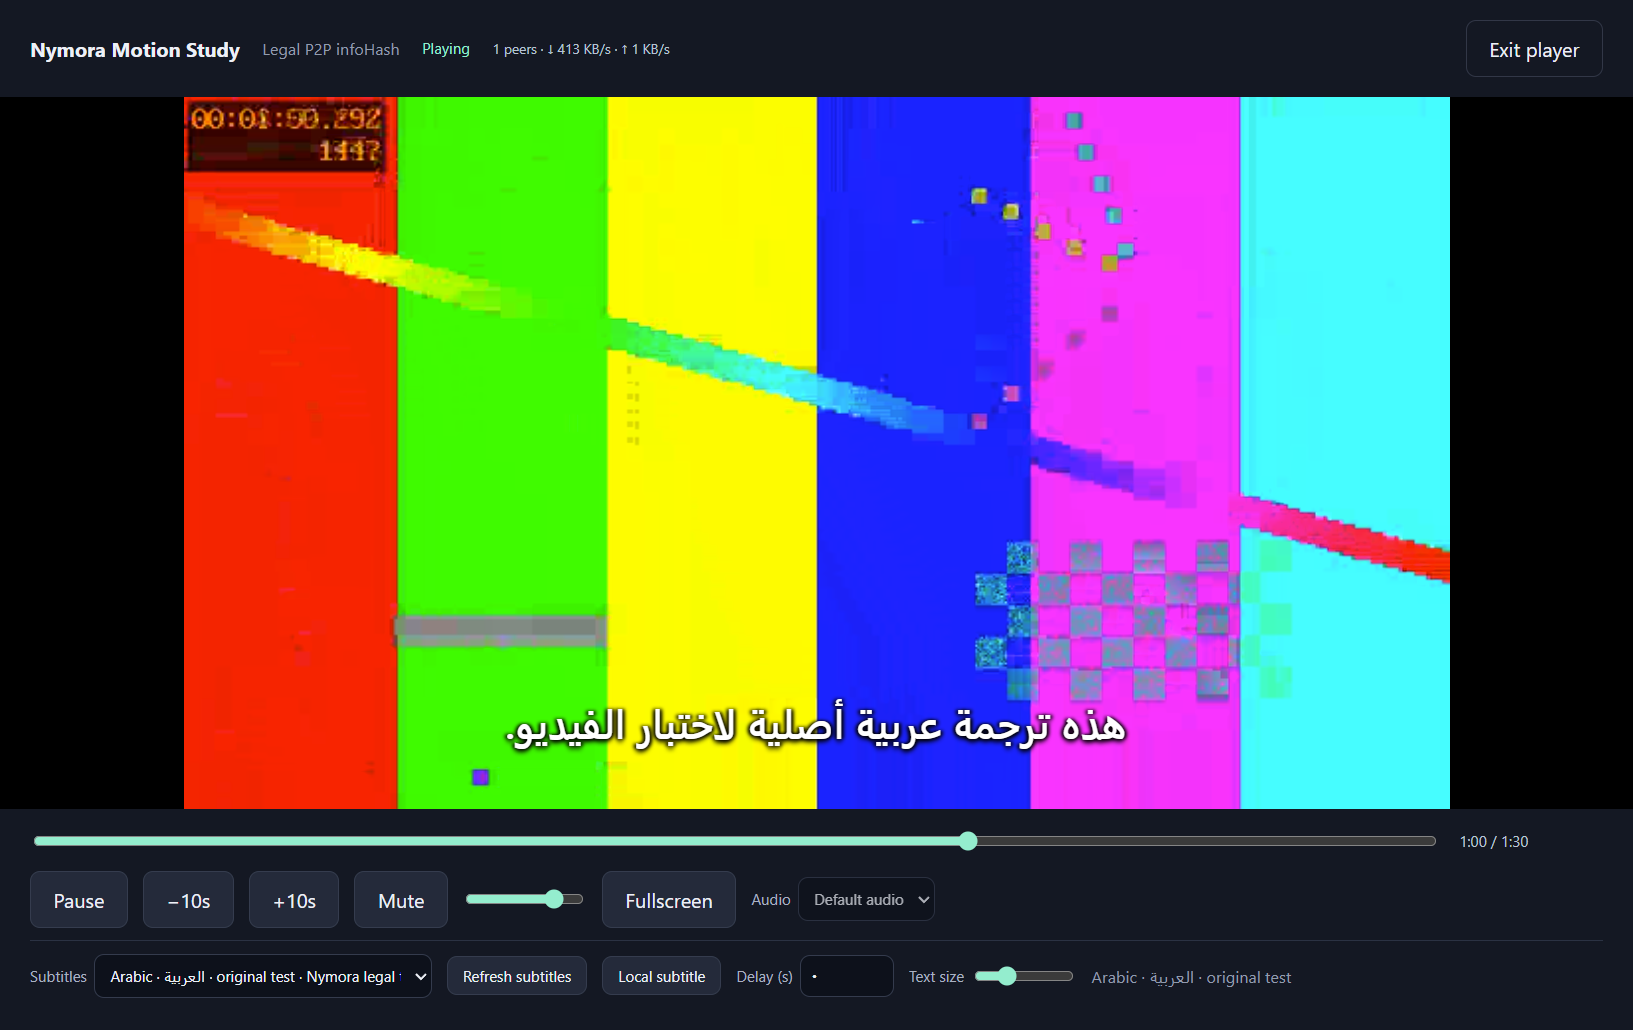
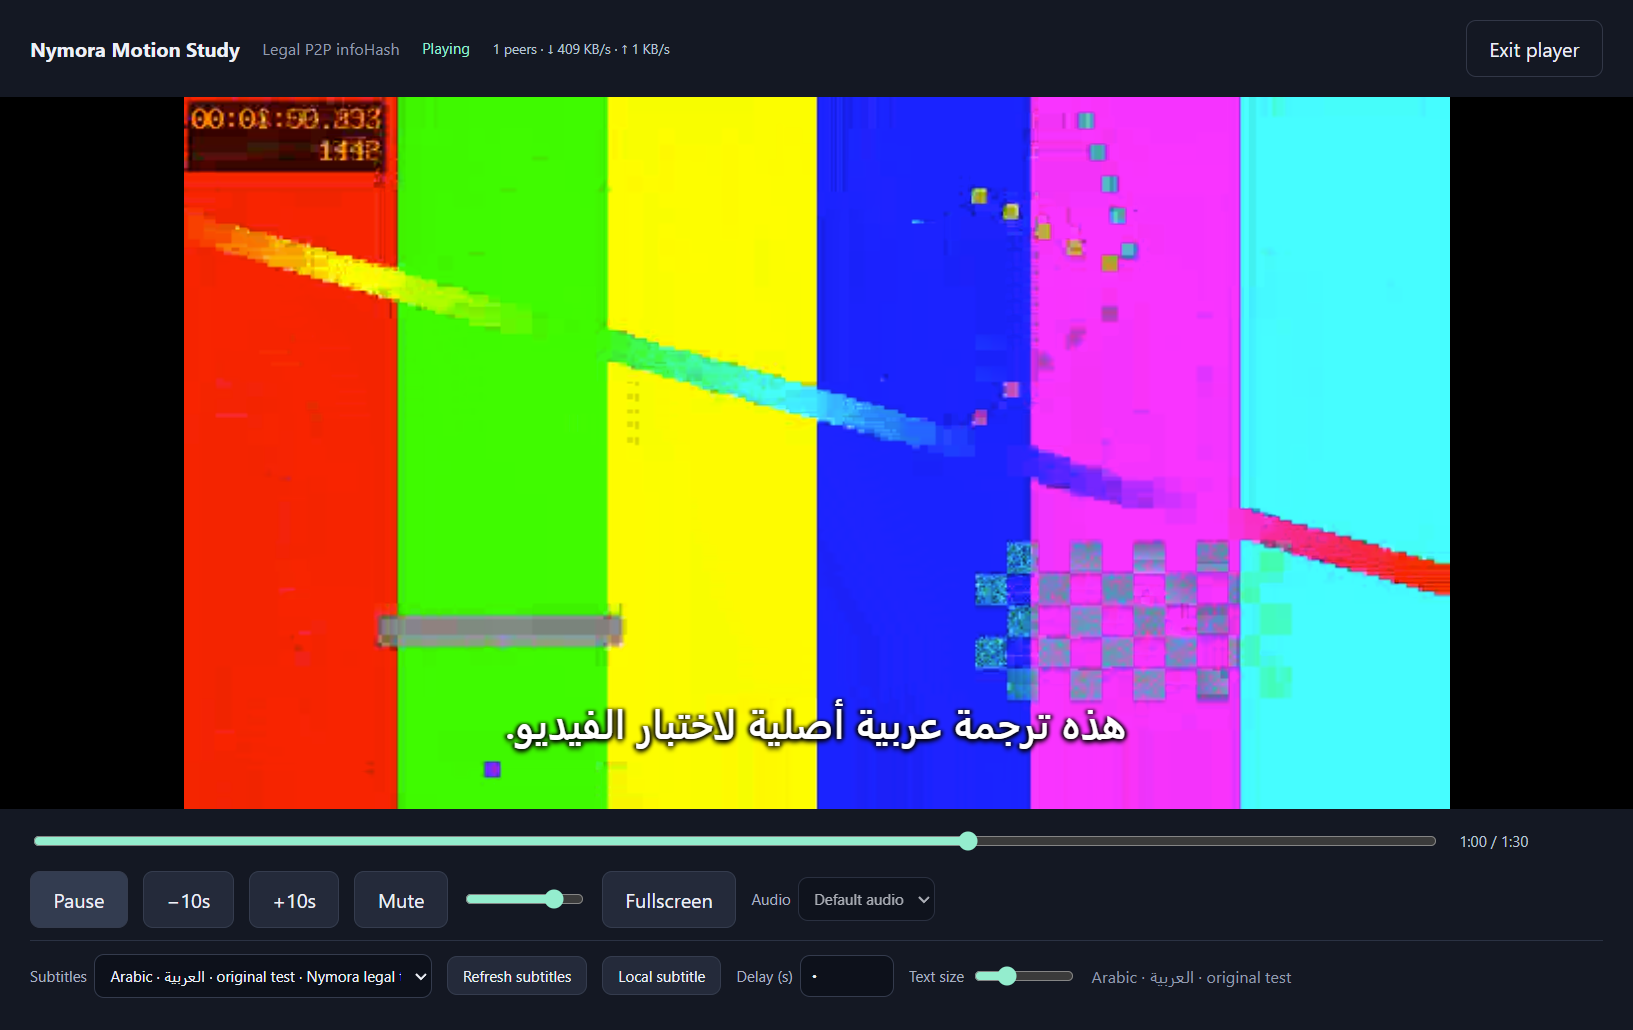
Record verified public 1.1.0 downloads and installed media flows

diff --git a/docs/P2P_QA.md b/docs/P2P_QA.md
@@ -39,7 +39,18 @@ Local build SHA-256 values:
[2 lines of base64/hex data omitted]
 
-Public release/download results are recorded once publication completes; the above establishes the local built-and-installed application.
+The public [v1.1.0 release](https://github.com/igc27/Nymora/releases/tag/v1.1.0) targets commit `5a817943c0110a67d9f502246dbcaad3f70711bb`. Its [Windows release workflow](https://github.com/igc27/Nymora/actions/runs/37087906157) passed packaged HTTP and P2P testing before attaching the binaries. Source CI also passed.
+
+Both public assets were downloaded independently and their hashes matched the public checksum manifest and GitHub asset digests. The downloaded installer completed with exit 0. Its installed application passed **all 16 P2P and 33 HTTP/HLS desktop checks**, including the real engine integration. The public-build P2P test decoded 13 frames at 640×360 with 901120 of 3627633 selected-file bytes downloaded; a fresh magnet session resumed at 60.437228 seconds. Current machine-readable desktop evidence is from that public installer; the separate unmocked native-notice evidence above is from the earlier local build of the same source.
+
[1 lines of base64/hex data omitted]
+
+Public release SHA-256 values (these differ from local build artifacts):
+
[2 lines of base64/hex data omitted]
+
+See [public release verification](p2p-release-evidence.json) and [the published release screenshot](screenshots/release-1.1.0.png). The 1.0.0 release and its historical verification record remain unchanged.
 
 ## Dependency audit and limits
 

diff --git a/README.md b/README.md
@@ -8,7 +8,7 @@ Bring your own compatible addons. Browse their catalogs, search for a title, cho
 
 Nymora is an independent project, not affiliated with, sponsored by or endorsed by Stremio. It reuses selected MIT-licensed Stremio addon-client components and follows the HTTP addon protocol. It does not provide or host movies or television content. Third-party addons are independently maintained services.
 
-**Release status:** Version 1.1.0 adds consent-gated BitTorrent streaming. See [P2P verification](docs/P2P_QA.md). The earlier [1.0.0 release](https://github.com/igc27/Nymora/releases/tag/v1.0.0) and its [verification record](docs/QA.md) remain available.
+**Release status:** [Version 1.1.0 is published](https://github.com/igc27/Nymora/releases/tag/v1.1.0) with consent-gated BitTorrent streaming. Its public installer passed the full P2P and HTTP/HLS desktop flows; both public downloads have verified checksums. See [P2P verification](docs/P2P_QA.md). The earlier [1.0.0 release](https://github.com/igc27/Nymora/releases/tag/v1.0.0) and its [verification record](docs/QA.md) remain available.
 
 ## Windows installation
 
